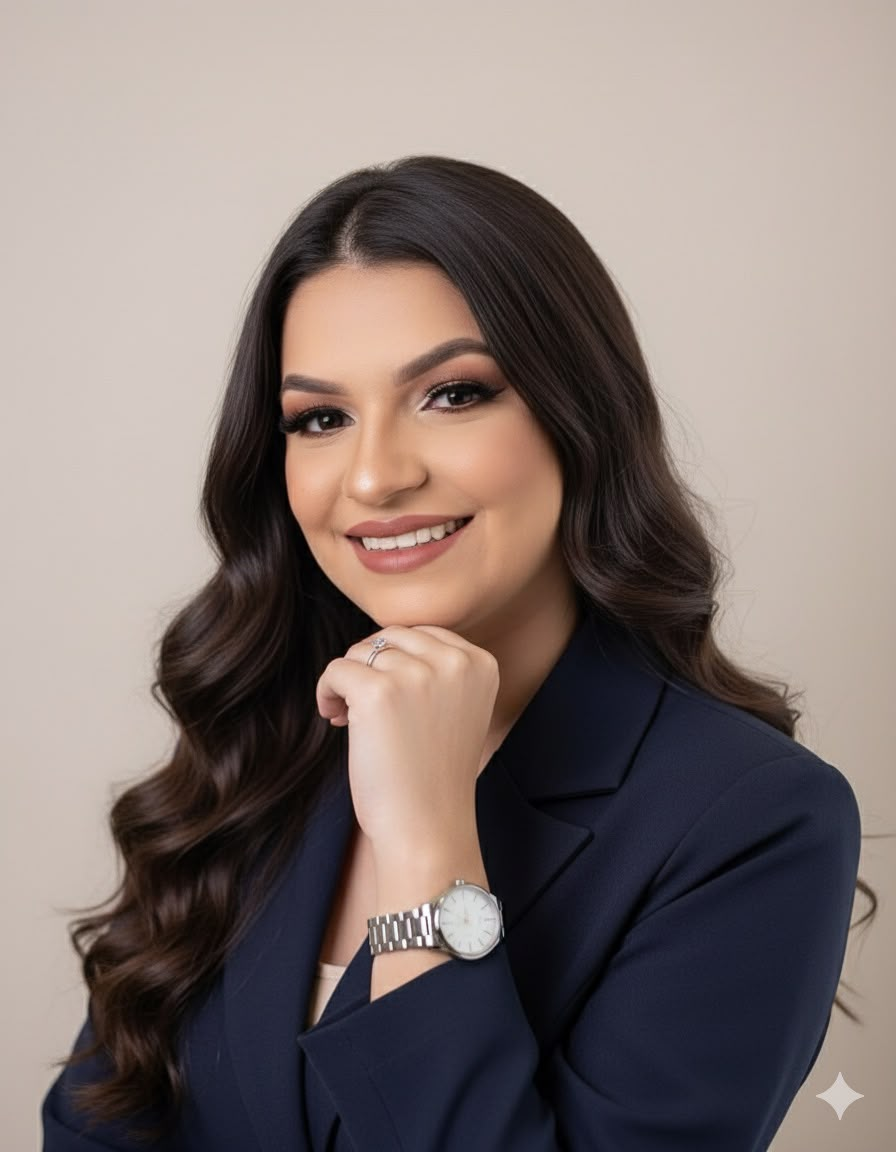
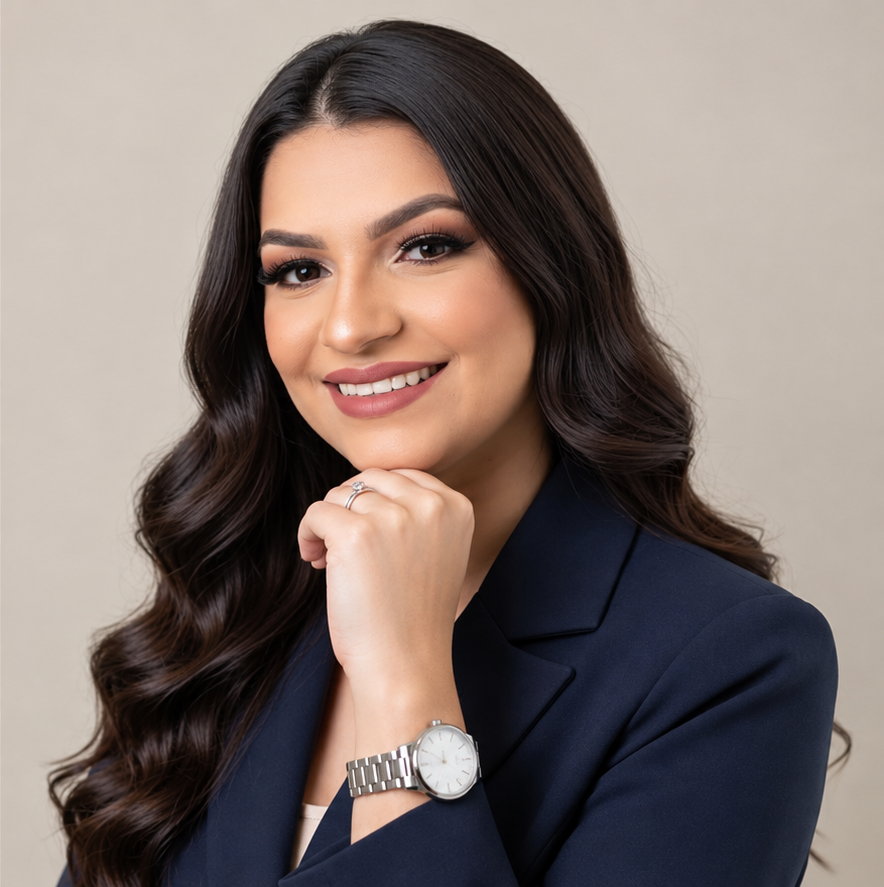
Ajuste no Scroll To Top

Changed region(s): [[0.0, 0.0, 1.0, 1.0], [0.7025, 0.9741, 0.7636, 1.0], [0.4887, 0.9436, 0.5192, 1.0]]

diff --git a/src/App.jsx b/src/App.jsx
@@ -1,12 +1,7 @@
-import {
-  BrowserRouter,
-  Routes,
-  Route
-} from "react-router-dom";
-
+import { BrowserRouter, Routes, Route } from "react-router-dom";
+import ScrollToTop from "./components/ScrollToTop/ScrollToTop";
 import Navbar from "./components/layouts/Navbar/Navbar";
 import Footer from "./components/layouts/Footer/Footer";
-
 import Home from "./pages/Home/Home";
 import Mentoria from "./pages/Mentoria/Mentoria";
 import Contato from "./pages/Contato/Contato";
@@ -16,41 +11,21 @@ import Ebook from "./pages/Ebook/Ebook";
 function App() {
   return (
     <BrowserRouter>
-
       <Navbar />
-
+      <ScrollToTop />
       <Routes>
+        <Route path="/" element={<Home />} />
 
-        <Route
-          path="/"
-          element={<Home />}
-        />
+        <Route path="/mentoria" element={<Mentoria />} />
 
-        <Route
-          path="/mentoria"
-          element={<Mentoria />}
-        />
+        <Route path="/contato" element={<Contato />} />
 
-        <Route
-          path="/contato"
-          element={<Contato />}
-        />
+        <Route path="/sobre" element={<Sobre />} />
 
-        <Route
-          path="/sobre"
-          element={<Sobre />}
-        />
-
-        <Route
-          path="/ebooks"
-          element={<Ebook />}
-        />
-
-
+        <Route path="/ebooks" element={<Ebook />} />
       </Routes>
 
       <Footer />
-
     </BrowserRouter>
   );
 }

diff --git a/src/components/ScrollToTop/ScrollToTop.jsx b/src/components/ScrollToTop/ScrollToTop.jsx
@@ -1,0 +1,14 @@
+import { useEffect } from "react";
+import { useLocation } from "react-router-dom";
+
+function ScrollToTop() {
+  const { pathname } = useLocation();
+
+  useEffect(() => {
+    window.scrollTo(0, 0);
+  }, [pathname]);
+
+  return null;
+}
+
+export default ScrollToTop;
